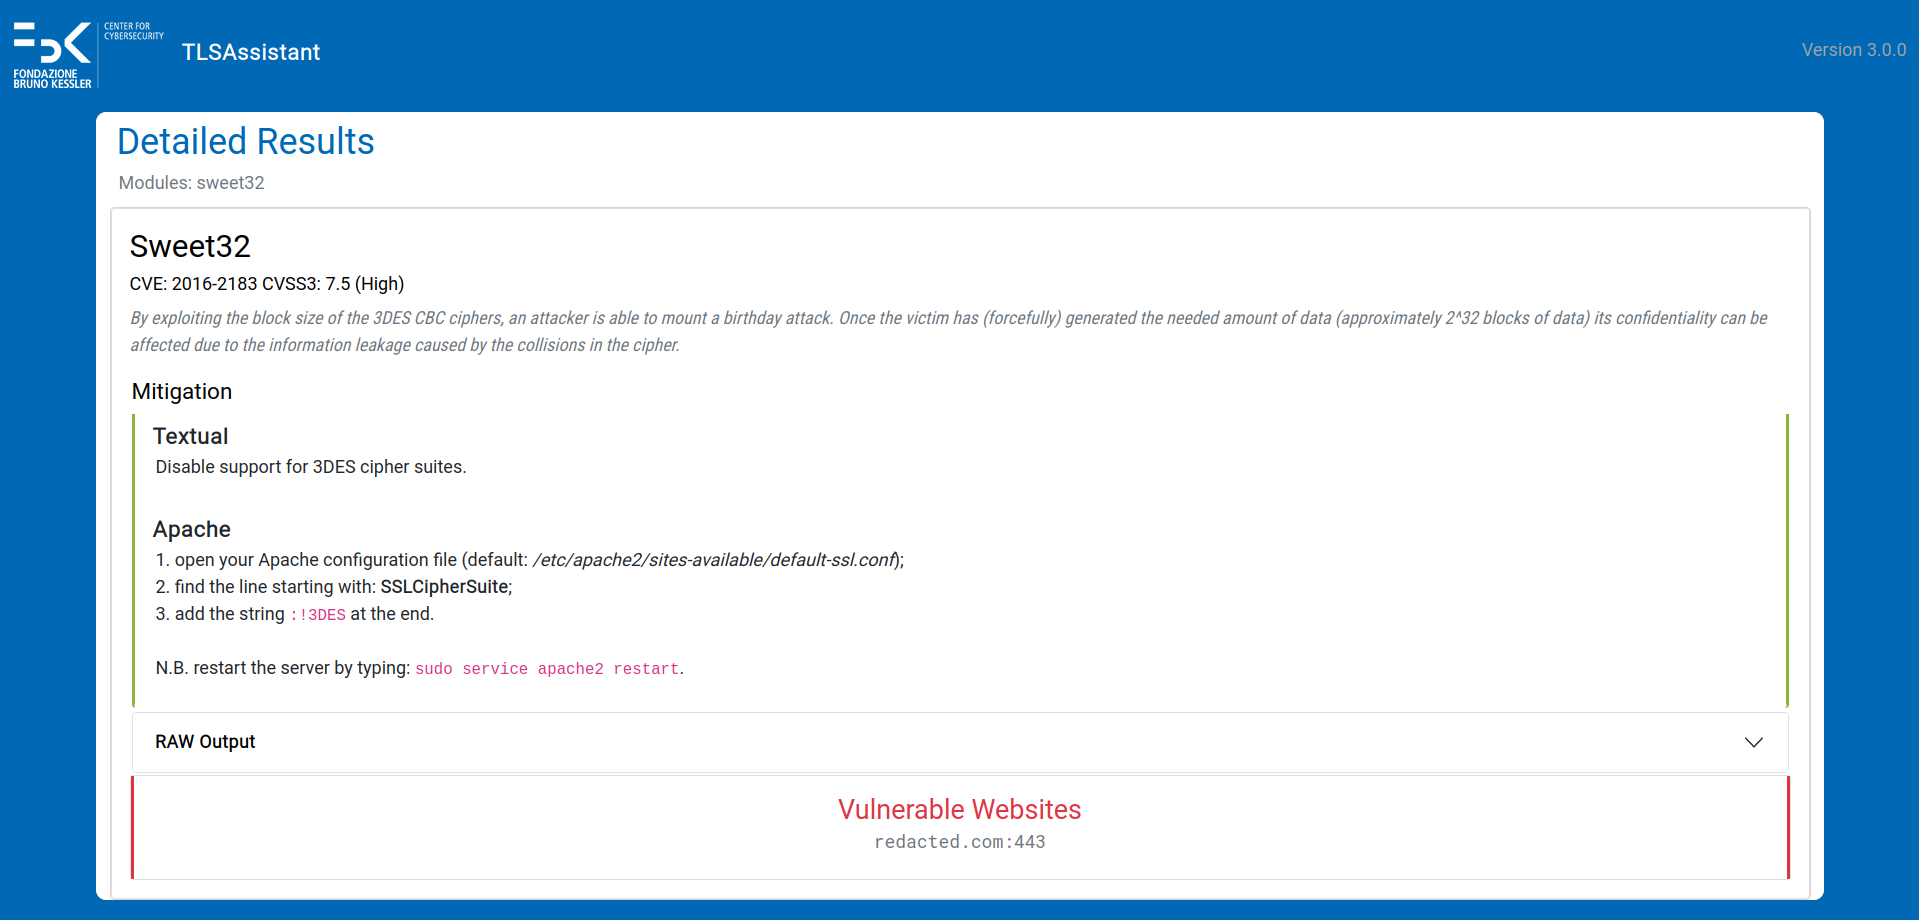
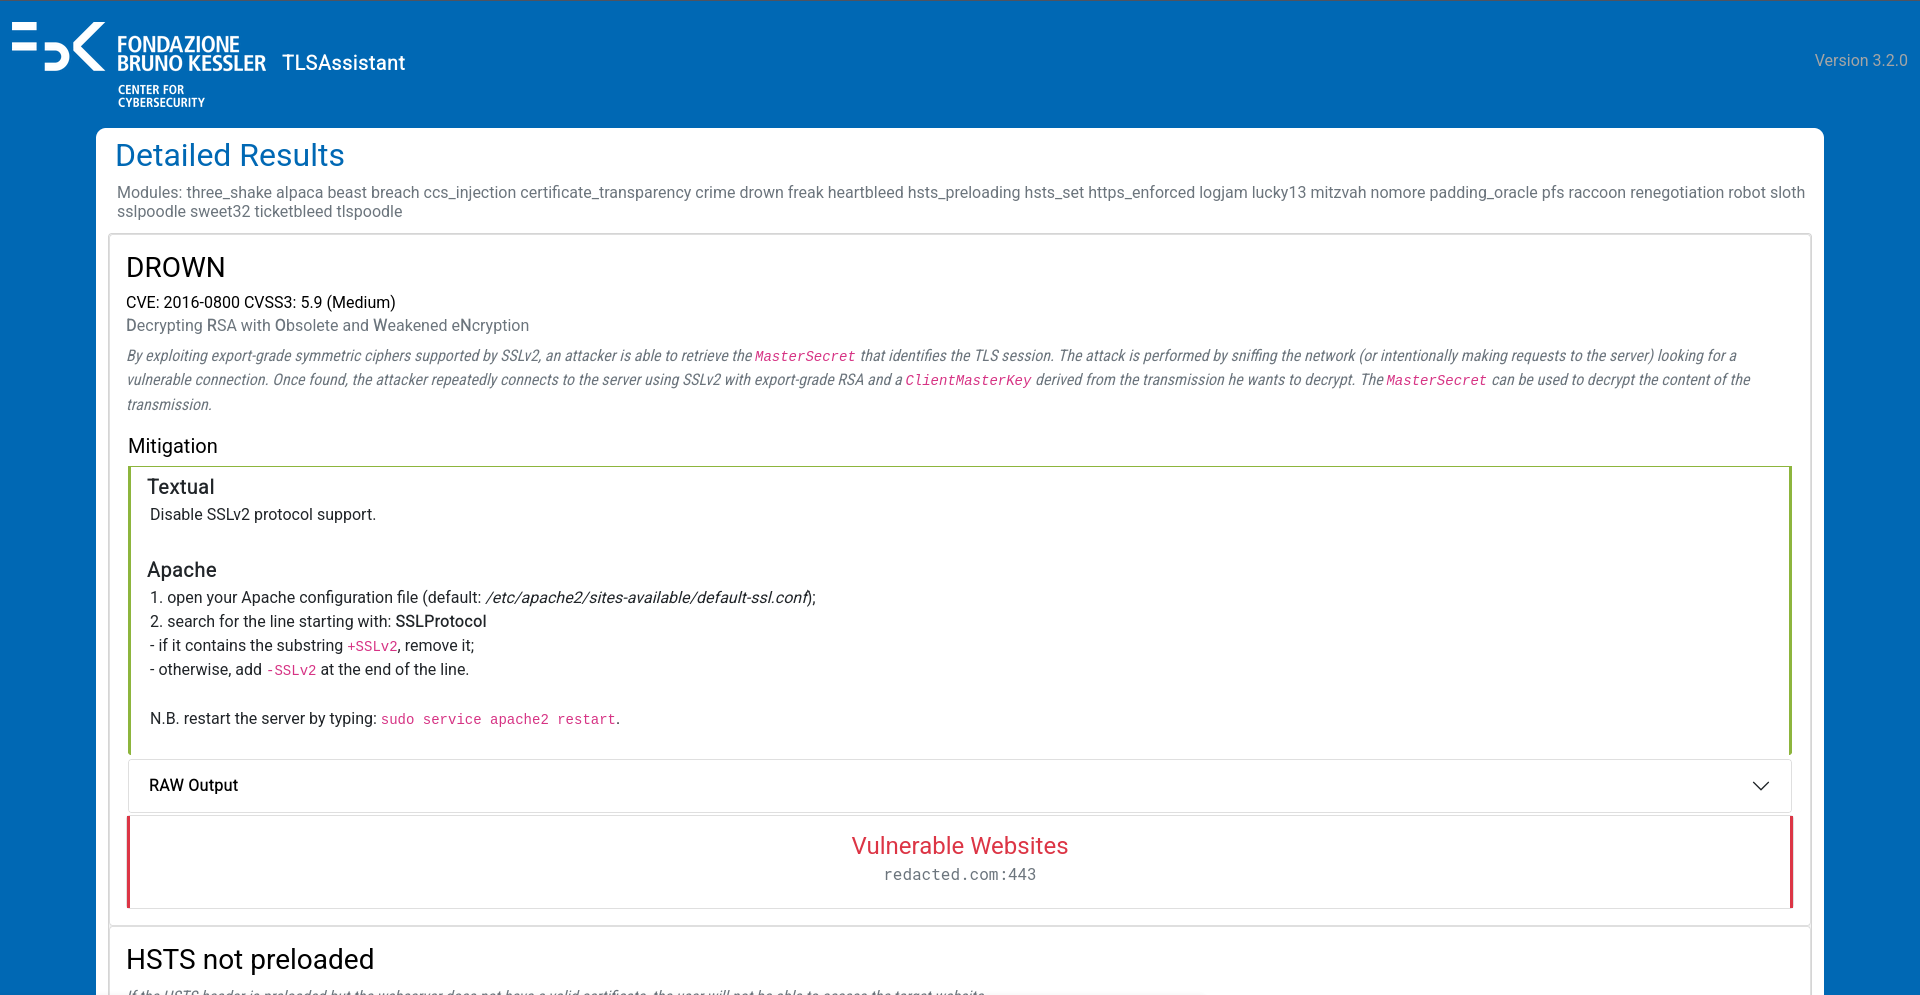
prepare for release

diff --git a/modules/compliance/configuration/apache_configuration.py b/modules/compliance/configuration/apache_configuration.py
@@ -49,7 +49,9 @@ class ApacheConfiguration(ConfigurationMaker):
             tmp_string = tmp_string[:-1]
         # this check prevents adding a field without any value
         if len(tmp_string) != len(config_field) + 1:
-            tmp_string, comment = self.perform_post_actions(field_rules, tmp_string, guideline)
+            tmp_string_args = tmp_string[len(config_field) + 1:]
+            tmp_string_args, comment = self.perform_post_actions(field_rules, tmp_string_args, guideline)
+            tmp_string = config_field + " " + tmp_string_args
             if comment:
                 comment = "#" + comment
             self._string_to_add += "\n" + comment + tmp_string

diff --git a/modules/compliance/configuration/nginx_configuration.py b/modules/compliance/configuration/nginx_configuration.py
@@ -96,9 +96,8 @@ class NginxConfiguration(ConfigurationMaker):
     def _write_to_file(self):
         if not os.path.isfile(self._config_template_path):
             raise FileNotFoundError("Invalid template file")
-
         with open(self._config_output, "w") as f:
-            f.write(nginx_build(self._template["config"][0]["parsed"], header=True))
+            f.write("# This file has been automatically generated by TLSAssistant (https://github.com/stfbk/tlsassistant).\n\n" + nginx_build(self._template["config"][0]["parsed"], header=True))
 
     def get_conf_data(self, dictionary: dict):
         user_configuration = {}
